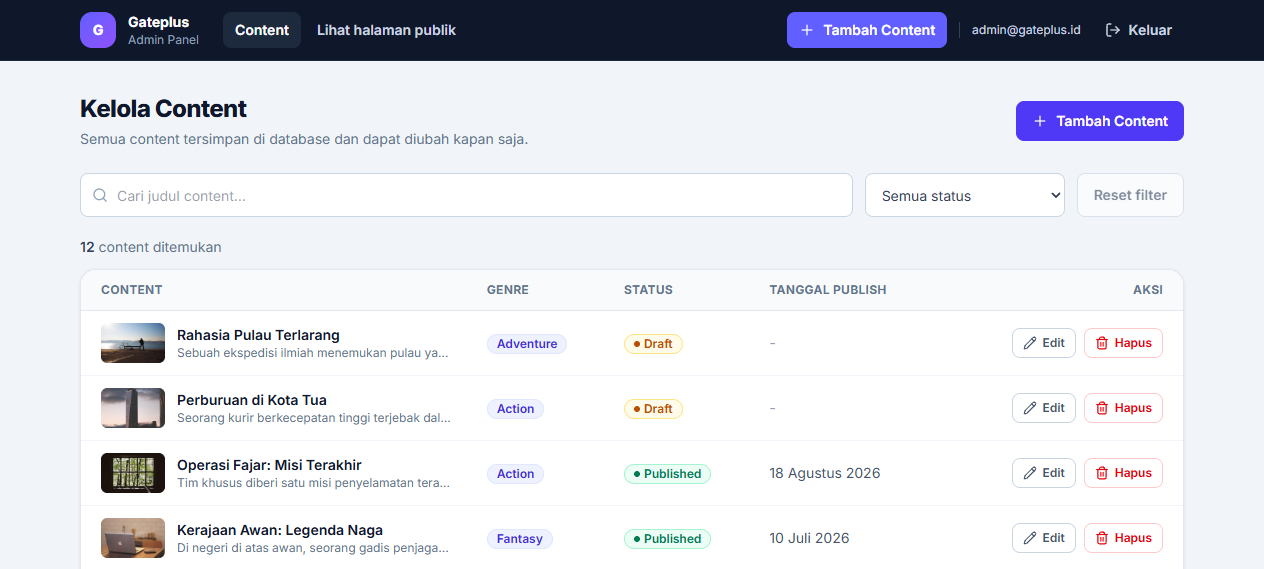
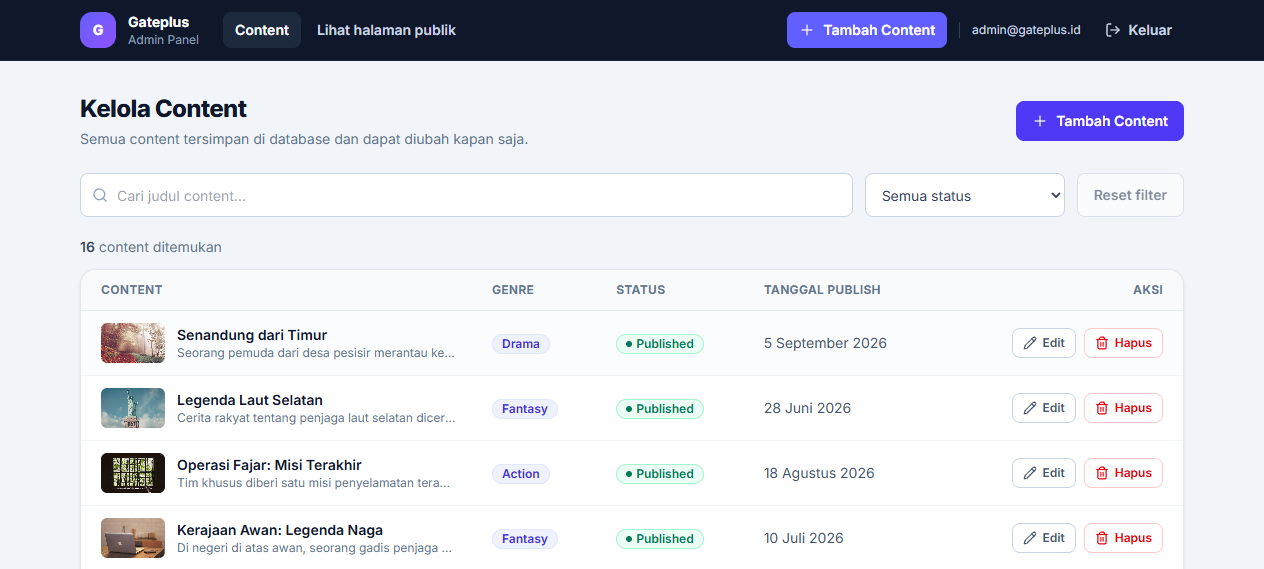
docs: perbarui README, tambah koleksi API, dan identitas submission
- README: isi nama dan URL repository (tidak ada placeholder lagi), badge CI, bagian Aturan Visibilitas Content, trade-off MongoDB vs relational, daftar yang sengaja tidak dikerjakan, status verifikasi, serta jawaban pertanyaan yang disesuaikan dengan implementasi terakhir

- docs/api.http: koleksi request siap pakai (REST Client/Postman) termasuk contoh kasus error 400/401/403/404

- Screenshot diperbarui (halaman publik tanpa filter status, panel admin 16 content) dan tambahan tampilan tablet

- .nvmrc dan engines Node >=20

diff --git a/README.md b/README.md
@@ -1,12 +1,14 @@
 # Gateplus Content Management
 
+[![CI](https://github.com/JakaxKato/gateplus-content-management/actions/workflows/ci.yml/badge.svg)](https://github.com/JakaxKato/gateplus-content-management/actions/workflows/ci.yml)
+
 Aplikasi content management dengan dua sisi: **halaman publik** untuk melihat content dan **panel admin** untuk membuat, mengubah, dan menghapus content. Seluruh data mengalir lewat REST API ke database MongoDB yang persistent.
 
 ---
 
-**Nama:** [Nama Kandidat]
-**Repository:** [URL repository]
-**Live Demo:** N/A
+**Nama:** Jaka Kelana Wijaya
+**Repository:** https://github.com/JakaxKato/gateplus-content-management
+**Live Demo:** N/A (belum di-deploy; cara menjalankan lokal ada di bawah)
 **Catatan:** Kredensial demo admin ada di bagian [Demo Credentials](#demo-credentials).
 
 ---
@@ -15,8 +17,8 @@ Aplikasi content management dengan dua sisi: **halaman publik** untuk melihat co
 
 Gateplus Content Management dibangun untuk memenuhi alur utuh **User → Frontend → API/Backend → Database → API Response → Frontend**:
 
-- **Halaman publik** (`/contents`): daftar content dengan thumbnail, genre, deskripsi singkat, status, tanggal publish, pencarian berdasarkan judul, filter genre/status, pagination, serta halaman detail content. Tersedia state loading (skeleton), empty, dan error.
-- **Panel admin** (`/admin`): login sederhana, list content, create, update, dan delete dengan dialog konfirmasi. Validasi berjalan di frontend **dan** backend.
+- **Halaman publik** (`/contents`): daftar content dengan thumbnail (atau placeholder), genre, deskripsi singkat, status, tanggal publish, pencarian berdasarkan judul, filter genre, pagination, serta halaman detail content. Tersedia state loading (skeleton), empty, error, dan tombol retry. Halaman publik **hanya menampilkan content berstatus `published`**.
+- **Panel admin** (`/admin`): login sederhana, list seluruh content (termasuk draft) dengan tabel di desktop dan card di mobile, create, update, dan delete dengan dialog konfirmasi. Validasi berjalan di frontend **dan** backend.
 - **REST API** (`/api`): CRUD content dengan status code yang sesuai, format response konsisten, error handling terpusat, dan server-side validation.
 
 ### Screenshots
@@ -29,9 +31,15 @@ Gateplus Content Management dibangun untuk memenuhi alur utuh **User → Fronten
 | --- | --- |
 | ![Panel admin](docs/screenshots/admin-list.png) | ![Validasi form](docs/screenshots/form-validation.png) |
 
-Tampilan mobile (panel admin menampilkan card, bukan tabel):
+Tampilan mobile dan tablet (panel admin memakai card di layar kecil, tabel hanya di desktop):
 
-![Mobile admin](docs/screenshots/mobile-admin.png)
+| Mobile (390px) | Tablet (820px) |
+| --- | --- |
+| ![Mobile admin](docs/screenshots/mobile-admin.png) | ![Tablet admin](docs/screenshots/tablet-admin.png) |
+
+| Tablet — halaman publik |
+| --- |
+| ![Tablet publik](docs/screenshots/tablet-public.png) |
 
 ## Tech Stack
 
@@ -40,17 +48,20 @@ Tampilan mobile (panel admin menampilkan card, bukan tabel):
 | Bagian | Teknologi |
 | --- | --- |
 | Database | MongoDB 7 (via Docker Compose) + Mongoose 9 |
-| Backend | Node.js 24, Express 5, TypeScript, Zod (validasi), JWT + bcryptjs (auth) |
+| Backend | Node.js 24, Express 5, TypeScript, Zod (validasi), JWT + bcryptjs (auth), helmet + express-rate-limit |
 | Frontend | React 19, Vite, TypeScript, Tailwind CSS v4, React Router 7 |
 | Data fetching | TanStack Query v5 (server state), fetch API bawaan |
 | Form | React Hook Form + Zod resolver |
-| Testing & quality | Vitest + Supertest (22 API test), ESLint, `tsc --noEmit`, GitHub Actions CI |
+| Testing & quality | Vitest + Supertest (32 API test), ESLint, `tsc --noEmit`, GitHub Actions CI |
 
 ## Cara Menjalankan Project
 
-**Prasyarat:** Node.js 20+ (dites di Node 24), npm, dan Docker (untuk MongoDB). Bisa juga memakai MongoDB Atlas dengan mengubah `MONGODB_URI`.
+**Prasyarat:** Node.js 20+ (dites di Node 24, lihat `.nvmrc`), npm, dan Docker (untuk MongoDB). Bisa juga memakai MongoDB Atlas dengan mengubah `MONGODB_URI`.
 
 ```bash
+# 0. (opsional) gunakan versi Node yang disarankan
+nvm use
+
 # 1. Install seluruh dependency (root, server, client)
 npm run install:all
 
@@ -63,7 +74,7 @@ cp server/.env.example server/.env
 # 3. Jalankan MongoDB
 npm run db:up
 
-# 4. Isi database dengan data awal (12 content + 1 akun admin)
+# 4. Isi database dengan data awal (16 content + 1 akun admin)
 npm run seed
 
 # 5. Jalankan server API dan frontend sekaligus
@@ -83,13 +94,13 @@ Script lain yang tersedia:
 ```bash
 npm run lint        # ESLint untuk server + client
 npm run typecheck   # TypeScript check untuk server + client
-npm test            # 22 automated test API (butuh MongoDB berjalan)
+npm test            # 32 automated test API (butuh MongoDB berjalan)
 npm run build       # Build production server + client
 npm run check       # lint + typecheck + test + build sekaligus
 npm run db:down     # Hentikan container MongoDB
 ```
 
-> **Troubleshooting:** bila mesin Anda menetapkan `NODE_ENV=production` secara global, `npm install` akan melewati devDependencies (ESLint/Vitest/TypeScript). Gunakan `npm install --include=dev` di folder `server/` dan `client/`.
+> **Troubleshooting:** bila mesin Anda menetapkan `NODE_ENV=production` secara global, `npm install` akan melewati devDependencies (ESLint/Vitest/TypeScript). Gunakan `npm install --include=dev` di folder `server/` dan `client/`. Script `npm run install:all` sudah memakai flag tersebut.
 
 ## Environment Variables
 
@@ -108,11 +119,11 @@ Frontend memakai `VITE_API_URL` (default `/api`, diteruskan proxy Vite ke port 5
 
 ## Database
 
-**Setup:** `npm run db:up` menjalankan MongoDB 7 lewat `docker-compose.yml` dengan volume bernama `mongo_data`, sehingga data tetap ada setelah container restart.
+**Setup:** `npm run db:up` menjalankan MongoDB 7 lewat `docker-compose.yml` dengan volume bernama `mongo_data`, sehingga data tetap ada setelah container restart atau aplikasi di-restart.
 
 **Seed:** `npm run seed` melakukan reset data (menghapus `contents` & `users`) lalu mengisi:
 
-- **12 content** — 8 `published` (dengan `published_at`) dan 4 `draft`; 2 di antaranya tanpa thumbnail untuk menguji placeholder.
+- **16 content** — 12 `published` (dengan `published_at`) dan 4 `draft`; 2 di antaranya tanpa thumbnail untuk menguji placeholder.
 - **1 akun admin** untuk login.
 
 **Koleksi `contents`** — field sesuai kebutuhan:
@@ -128,21 +139,21 @@ Frontend memakai `VITE_API_URL` (default `/api`, diteruskan proxy Vite ke port 5
 | `published_at` | Date \| null | Wajib (dan tidak boleh null) bila status `published` |
 | `created_at`, `updated_at` | Date | Otomatis dari Mongoose timestamps |
 
-Index `{ status, genre, created_at }` disiapkan untuk mempercepat filter + pengurutan yang paling sering dipakai.
+Index `{ status, genre, created_at }` disiapkan untuk mempercepat filter + pengurutan yang paling sering dipakai. Tidak ada migration tool khusus karena MongoDB schemaless — struktur divalidasi di level aplikasi (Mongoose + zod), dan data awal disiapkan lewat `npm run seed`.
 
 ## API Endpoints
 
-Base URL: `http://localhost:5000/api`
+Base URL: `http://localhost:5000/api`. Koleksi request siap pakai (REST Client/Postman) ada di [`docs/api.http`](docs/api.http).
 
 | Method | Endpoint | Auth | Deskripsi |
 | --- | --- | --- | --- |
 | GET | `/health` | – | Status server + koneksi database |
-| GET | `/contents` | – | List content (search, filter, pagination) |
-| GET | `/contents/:id` | – | Detail satu content |
+| GET | `/contents` | opsional | List content. Anonim: hanya `published`. Dengan token admin: semua status |
+| GET | `/contents/:id` | opsional | Detail content. Draft hanya bisa dibaca admin |
 | POST | `/contents` | Bearer token | Membuat content baru |
 | PUT | `/contents/:id` | Bearer token | Memperbarui content (payload lengkap) |
 | DELETE | `/contents/:id` | Bearer token | Menghapus content |
-| POST | `/auth/login` | – | Login admin, mengembalikan JWT |
+| POST | `/auth/login` | – | Login admin, mengembalikan JWT (dibatasi 10 percobaan / 15 menit) |
 | GET | `/auth/me` | Bearer token | Profil user yang sedang login |
 
 **Query params `GET /contents`:**
@@ -151,7 +162,7 @@ Base URL: `http://localhost:5000/api`
 | --- | --- | --- |
 | `search` | teks bebas (dicocokkan ke judul, case-insensitive) | – |
 | `genre` | salah satu genre yang terdaftar | – |
-| `status` | `draft` \| `published` | – |
+| `status` | `published` untuk semua pengunjung; `draft` hanya untuk admin | anonim: `published` |
 | `page` | integer ≥ 1 | `1` |
 | `limit` | integer 1–50 | `9` |
 
@@ -176,7 +187,7 @@ Base URL: `http://localhost:5000/api`
 }
 ```
 
-**Status code yang dipakai:** `200` (sukses), `201` (dibuat), `400` (validasi/format id/JSON rusak), `401` (token tidak ada/tidak valid, kredensial salah), `404` (data/endpoint tidak ditemukan), `409` (duplikat), `500` (error tak terduga). Error terpusat ditangani satu middleware, termasuk `CastError`, `ValidationError`, dan duplicate key MongoDB.
+**Status code yang dipakai:** `200` (sukses), `201` (dibuat), `400` (validasi/format id/JSON rusak), `401` (token tidak ada/tidak valid, kredensial salah), `403` (filter status khusus admin oleh pengunjung anonim), `404` (data/endpoint tidak ditemukan, termasuk draft yang diakses anonim), `409` (duplikat), `429` (rate limit login), `500` (error tak terduga). Error terpusat ditangani satu middleware, termasuk `CastError`, `ValidationError`, dan duplicate key MongoDB.
 
 **Contoh pemakaian:**
 
@@ -194,6 +205,19 @@ curl -s -X POST http://localhost:5000/api/contents \
 # List dengan search + filter
 curl -s "http://localhost:5000/api/contents?search=neon&genre=Sci-Fi&page=1&limit=9"
 ```
+
+## Aturan Visibilitas Content (draft vs published)
+
+Endpoint publik **tidak pernah** mengembalikan draft:
+
+- `GET /contents` tanpa token otomatis dibatasi ke `status=published`; meminta `?status=draft` sebagai anonim menghasilkan `403`.
+- `GET /contents/:id` untuk content draft mengembalikan `404` ke anonim (bukan `403`, supaya keberadaan draft tidak bocor).
+- Admin yang menyertakan token JWT melihat semua status — dipakai oleh panel admin dan halaman edit.
+- Halaman publik mengirim `status=published` secara eksplisit, sehingga walaupun admin sedang login di browser yang sama, halaman publik tetap hanya menampilkan content published.
+
+Badge **Status** dan **Published date** tetap ditampilkan di kartu halaman publik (sesuai brief), hanya saja nilainya selalu `Published` karena draft memang tidak pernah dikirim ke halaman publik. Filter status tersedia di panel admin, tempat filter itu relevan.
+
+**Trade-off:** tampilan "halaman publik semua status" memang lebih mudah untuk mendemokan variasi draft, tetapi berisiko dilihat sebagai kebocoran data. Karena brief menekankan alur data yang benar, aturan "publik = published" dipilih sebagai perilaku default; variasi draft tetap ditunjukkan lewat panel admin dan screenshot.
 
 ## Struktur Project
 
@@ -213,16 +237,18 @@ curl -s "http://localhost:5000/api/contents?search=neon&genre=Sci-Fi&page=1&limi
 │   │   ├── config/                # pembacaan & validasi environment
 │   │   ├── controllers/           # handler HTTP
 │   │   ├── db/                    # koneksi MongoDB
-│   │   ├── middlewares/           # validate (zod), auth (JWT), error handler
-│   │   ├── models/                # skema Mongoose + transform toJSON
+│   │   ├── middlewares/           # validate (zod), auth (require + optional), error handler
+│   │   ├── models/                # skema Mongoose, invariant, transform toJSON
 │   │   ├── routes/                # definisi route
 │   │   ├── schemas/               # skema validasi zod
 │   │   ├── utils/                 # AppError, response helper, jwt
-│   │   ├── app.ts                 # perakitan Express app
+│   │   ├── app.ts                 # perakitan Express app (helmet, cors, routes)
 │   │   ├── server.ts              # bootstrap + graceful shutdown
 │   │   └── seed.ts                # data awal
 │   └── tests/                     # automated test API (Vitest + Supertest)
-├── docs/screenshots/
+├── docs/
+│   ├── api.http                   # koleksi request API (REST Client/Postman)
+│   └── screenshots/
 ├── .github/workflows/ci.yml
 ├── docker-compose.yml
 └── package.json                   # script orkestrasi (install, db, seed, dev, check)
@@ -239,42 +265,69 @@ Aturan validasi dijalankan di **dua tempat**: zod di backend sebagai sumber kebe
 | `genre` wajib & harus dari daftar genre | ✔ | ✔ (zod enum + enum model) |
 | `status` harus `draft` atau `published` | ✔ | ✔ |
 | `thumbnail_url` valid (http/https) jika diisi | ✔ | ✔ |
-| `published_at` wajib & valid jika status `published` | ✔ | ✔ |
+| `published_at` wajib & valid jika status `published` | ✔ | ✔ (zod + hook model) |
 | Error per field dari server dipetakan ke field form | ✔ | — |
 
-Isi ulang `published_at` saat status `draft` akan disimpan sebagai `null`, sehingga tidak ada content draft yang punya tanggal publish.
+**Konsistensi `published_at`:**
+
+- Status `draft` boleh (dan selalu disimpan sebagai) `null` — controller dan hook `pre('validate')` di model menetapkan `null` walaupun client mengirim tanggal.
+- Status `published` wajib punya tanggal valid; pelanggaran ditolak `400` dengan error pada field `published_at`.
+- Aturan ini ditegakkan di tiga lapis: skema zod (kontrak API), hook model (berlaku juga untuk penulisan langsung seperti seed), dan validasi form di frontend.
+
+## Autentikasi
+
+- Login admin (`POST /auth/login`) memverifikasi password dengan bcrypt dan mengembalikan JWT (masa berlaku dari `JWT_EXPIRES_IN`).
+- Endpoint `POST`, `PUT`, `DELETE` wajib menyertakan `Authorization: Bearer <token>`; `GET` boleh diakses tanpa token.
+- Middleware `optionalAuth` dipakai pada `GET`: token valid → diperlakukan sebagai admin, tanpa token → anonim, token ada tapi tidak valid → `401` (supaya frontend membersihkan sesi yang kedaluwarsa).
+- `POST /auth/login` dibatasi 10 percobaan per 15 menit (express-rate-limit, dinonaktifkan otomatis saat `NODE_ENV=test`).
+- Response `GET /auth/me` dan `POST /auth/login` tidak pernah menyertakan field `password` (dihapus oleh `toJSON` transform pada model User).
 
 ## Testing & Code Quality
 
-- **22 automated test API** (`npm test` di folder `server/`) memakai Vitest + Supertest dengan database terpisah (`gateplus_test`): memverifikasi happy path CRUD, search/filter/pagination, seluruh aturan validasi, autentikasi (401/berhasil), format error, dan 400/404 untuk input/id yang salah.
+- **32 automated test API** (`npm test` di folder `server/`) memakai Vitest + Supertest dengan database terpisah (`gateplus_test`). Cakupannya: list & pagination, detail, search, filter genre dan status, aturan visibilitas draft (403/404 untuk anonim), create/update/delete, validasi per field, thumbnail URL tidak valid, published tanpa `published_at`, invariant model, unauthorized mutation, content tidak ditemukan, konsistensi format response, login, dan health check.
 - **ESLint** (flat config) untuk kedua package, **`tsc --noEmit`** untuk typecheck, dan **build production** keduanya.
-- **CI GitHub Actions** (`.github/workflows/ci.yml`) menjalankan lint, typecheck, test (dengan service container MongoDB), dan build untuk setiap push/PR.
+- **CI GitHub Actions** (`.github/workflows/ci.yml`) menjalankan lint, typecheck, test (dengan service container MongoDB), dan build untuk setiap push/PR — statusnya hijau dan terlihat di badge paling atas README.
 
 ## Technical Decisions & Trade-offs
 
 1. **TypeScript di dua sisi.** Kontrak data antara frontend dan backend jadi eksplisit dan kesalahan tipe tertangkap saat build. Trade-off: ada langkah build dan versi TypeScript dipin ke `6.x` karena `typescript-eslint` belum mendukung TS 7.
 2. **Dua lapis validasi (zod di server, skema terpisah di client).** Server tetap satu-satunya penentu kebenaran; client hanya mempercepat feedback. Trade-off: aturan validasi terduplikasi karena tidak ada paket `shared/` — membuat workspace tambahan dianggap over-engineering untuk scope ini.
 3. **Kontrak response seragam + error handler terpusat.** Frontend cukup menangani satu bentuk response, dan error per field (`errors[]`) langsung dipetakan ke form. Trade-off: pesan error harus disiplin dijaga agar tidak ada endpoint yang menyimpang.
-4. **Auth hanya untuk endpoint mutasi.** `GET` tetap publik supaya halaman publik tidak butuh login, sedangkan perubahan data wajib memakai JWT. Trade-off: token disimpan di `localStorage` (rentan XSS) dan belum ada refresh token; untuk produksi lebih baik `httpOnly` cookie + proteksi CSRF.
-5. **Halaman publik menampilkan semua status dengan badge**, karena brief meminta field *status* dan *tanggal publish* tampil di daftar. Di produksi, tinggal mengirim `status=published` sebagai default di endpoint publik. Trade-off: draft ikut terlihat di demo.
-6. **TanStack Query untuk server state** menerima loading/error state, cache, dan invalidasi setelah mutasi secara konsisten (termasuk pagination tanpa flicker lewat `keepPreviousData`). Trade-off: satu dependency tambahan.
+4. **Auth hanya untuk endpoint mutasi, dengan `optionalAuth` pada `GET`.** Halaman publik tetap bisa diakses tanpa login, sedangkan draft hanya terbaca oleh admin lewat endpoint yang sama. Trade-off: satu endpoint melayani dua konteks (publik vs admin), sehingga perilakunya perlu didokumentasikan dengan jelas (lihat bagian Aturan Visibilitas Content).
+5. **Draft tidak pernah diekspos ke publik.** `GET /contents` anonim dibatasi `status=published`, draft hanya terlihat admin, dan detail draft mengembalikan `404` untuk anonim. Trade-off: badge status di halaman publik selalu `Published` sehingga variasi draft tidak terlihat di sana; variasi draft diperlihatkan di panel admin. Alasan lengkap ada di bagian [Aturan Visibilitas Content](#aturan-visibilitas-content-draft-vs-published).
+6. **TanStack Query untuk server state** menangani loading/error state, cache, dan invalidasi setelah mutasi secara konsisten (termasuk pagination tanpa flicker lewat `keepPreviousData`). Trade-off: satu dependency tambahan.
 7. **Pencarian memakai regex case-insensitive dengan escaping** (aman dari injeksi regex) dan sort `created_at desc`. Trade-off: tidak memakai text index/Atlas Search; pada data besar perlu diganti.
 8. **PUT (bukan PATCH)** karena form admin mengirim payload lengkap, sehingga tidak perlu logika merge parsial. Trade-off: update sebagian (partial update) belum didukung.
 9. **`toJSON` transform di model** memastikan frontend selalu menerima `id` (bukan `_id`) dan tidak pernah menerima `__v` maupun `password`. Trade-off: bentuk dokumen mentah di server dan bentuk JSON di API berbeda tipis, perlu disadari saat debug.
 10. **Delete berupa hard delete dengan dialog konfirmasi.** Trade-off: tanpa soft delete/audit trail; untuk kebutuhan internal yang butuh pemulihan data, soft delete lebih tepat.
 11. **Komponen UI ditulis sendiri di atas Tailwind** (tanpa UI kit). Trade-off: lebih banyak kode komponen dasar, tetapi bundle kecil dan gaya konsisten.
-12. **State filter disimpan sebagai state komponen**, belum disinkronkan ke URL query. Trade-off: filter tidak bisa di-share lewat link, tetapi implementasi jauh lebih sederhana.
+12. **Helmet + rate limit login.** Header keamanan standar dipasang dan login dibatasi per IP. Trade-off: rate limit berbasis memory store (cukup untuk single instance, perlu Redis bila di-scale horizontal).
+13. **State filter disimpan sebagai state komponen**, belum disinkronkan ke URL query. Trade-off: filter tidak bisa di-share lewat link, tetapi implementasi jauh lebih sederhana.
+
+### Trade-off MongoDB dibanding database relational
+
+- **Yang menguntungkan di kasus ini:** dokumen content tidak punya relasi (tidak ada join genre/user), sehingga bentuk JSON-native MongoDB langsung bisa dikirim sebagai response API tanpa mapping tabel. Skema yang fleksibel juga cocok karena field seperti `published_at` boleh `null` dan thumbnail opsional.
+- **Yang hilang dibanding relational:** tidak ada foreign key & constraint tingkat database, jadi konsistensi seperti "published wajib punya `published_at`" harus dijaga di aplikasi (zod + hook Mongoose) — pada MySQL/PostgreSQL ini bisa ditegakkan dengan `CHECK`/`NOT NULL`. Selain itu, transaksi lintas dokumen dan query agregasi kompleks lebih mudah diekspresikan di SQL.
+- **Kapan akan pindah:** jika content mulai punya relasi banyak (kategori hierarkis, penulis, riwayat revisi, audit) dan butuh constraint kuat di level database, PostgreSQL lebih tepat. Karena semua akses data sudah dibungkus di layer model/controller, migrasi hanya menyentuh `server/src/models` dan `controllers`, bukan frontend.
+
+## Yang Sengaja Tidak Dikerjakan (di luar scope)
+
+- Upload file thumbnail — brief meminta **thumbnail URL**, bukan storage; agar tidak menambah kompleksitas penyimpanan.
+- Payment, realtime/WebSocket, role & permission kompleks, microservices, dan video streaming (secara eksplisit tidak perlu).
+- **PATCH** partial update — brief menulis "PUT **atau** PATCH", dan form admin selalu mengirim payload lengkap, jadi PUT dipilih agar tidak ada logika merge parsial.
+- Soft delete & audit trail — tidak diminta; hard delete dengan konfirmasi sudah memenuhi kebutuhan admin.
+- Internationalization (i18n) — UI dan dokumentasi cukup satu bahasa (Indonesia) untuk konteks test ini.
 
 ## Known Limitations
 
-- Belum ada hardening produksi: rate limiting, `helmet`, dan penanganan brute force login.
 - Token JWT disimpan di `localStorage`, belum memakai cookie `httpOnly` + refresh token.
 - Pencarian hanya pada judul (sesuai brief), belum full-text search pada deskripsi.
-- Thumbnail hanya berupa URL — belum ada upload file (juga di luar scope brief).
 - Pagination berbasis offset; untuk data sangat besar lebih baik cursor-based.
-- Setelah create/update/delete, UI menunggu refetch (tanpa optimistic update).
-- Filter tidak tersimpan di URL, dan panel admin belum punya halaman pratinjau tersendiri.
-- Belum ada automated E2E test di browser; pengujian UI dilakukan manual (hasilnya ada di `docs/screenshots/`).
+- Setelah create/update/delete, UI menunggu refetch (belum optimistic update).
+- Filter & pagination belum tersimpan di URL, jadi belum bisa di-share lewat link.
+- Rate limit login memakai memory store (belum Redis) dan belum ada rate limit untuk endpoint mutasi.
+- Belum ada automated E2E test di browser; alur UI diverifikasi manual (bukti ada di `docs/screenshots/`).
+- Live demo belum tersedia (belum di-deploy), sehingga reviewer perlu menjalankan secara lokal.
 
 ## Demo Credentials
 
@@ -285,6 +338,19 @@ Password: admin123
 
 Akun ini dibuat oleh `npm run seed`. Halaman publik tidak memerlukan login.
 
+## Status Verifikasi
+
+Terakhir diverifikasi di lingkungan pengembangan (Node 24, MongoDB 7 lewat Docker):
+
+| Pemeriksaan | Perintah | Hasil |
+| --- | --- | --- |
+| Lint | `npm run lint` | lolos (server + client) |
+| Typecheck | `npm run typecheck` | lolos (server + client) |
+| Automated test | `npm test` | 32 test lolos |
+| Production build | `npm run build` | lolos (server + client) |
+| CI | GitHub Actions | hijau (badge di atas) |
+| Alur manual | browser | list publik (hanya published), detail, search, filter genre, pagination, login admin, create (draft & published), edit, delete + konfirmasi, responsive mobile/tablet/desktop |
+
 ---
 
 ## Jawaban Pertanyaan
@@ -293,48 +359,48 @@ Akun ini dibuat oleh `npm run seed`. Halaman publik tidak memerlukan login.
 
 Karena brief menekankan pemahaman alur **frontend → API → database**, saya memilih stack yang paling saya kuasai dan paling langsung menggambarkan alur itu (MERN), bukan stack yang paling banyak komponennya.
 
-- **MongoDB** cocok untuk content karena bentuknya JSON-native sehingga dokumen bisa langsung dipetakan ke response API dan object di frontend tanpa mapping berlebih. Skema content juga masih sederhana, jadi fleksibilitas document store belum menjadi risiko konsistensi.
+- **MongoDB** cocok untuk content karena bentuknya JSON-native sehingga dokumen bisa langsung dipetakan ke response API dan object di frontend tanpa mapping berlebih. Skema content juga masih sederhana, jadi fleksibilitas document store belum menjadi risiko konsistensi. Perbandingan detailnya ada di bagian [Trade-off MongoDB dibanding database relational](#trade-off-mongodb-dibanding-database-relational).
 - **Express 5** ringan dan sudah menangani error dari handler `async` secara otomatis, sehingga kode controller tetap bersih.
 - **React + Vite + TypeScript** memberi feedback cepat saat development, sementara TypeScript membuat kontrak data frontend–backend terlihat jelas (tipe `Content`, `PaginationMeta`, `ApiSuccess`/`ApiErrorBody`).
 - **Tailwind CSS** membuat layout responsive (mobile/tablet/desktop) konsisten tanpa menulis CSS terpisah per komponen.
-- **Zod** dipilih karena validasi yang sama bisa dibaca di kedua sisi tanpa mengubah struktur kode, dan pesan errornya mudah dipetakan ke field form.
+- **Zod** dipilih karena aturan validasi yang sama bisa dibaca di kedua sisi tanpa mengubah struktur kode, dan pesan errornya mudah dipetakan ke field form.
 
 ### 2. Bagaimana struktur aplikasinya?
 
 Monorepo sederhana dengan dua aplikasi yang diorkestrasi dari root:
 
-- `server/` — Express dengan pemisahan berlapis: **routes → middleware (validasi/auth) → controller → model**. Semua aturan validasi ada di `schemas/`, error ditangani satu middleware terpusat, dan seluruh response dibentuk lewat satu helper agar konsisten.
+- `server/` — Express dengan pemisahan berlapis: **routes → middleware (auth/validasi) → controller → model**. Semua aturan validasi ada di `schemas/`, error ditangani satu middleware terpusat, dan seluruh response dibentuk lewat satu helper agar konsisten.
 - `client/` — React dengan pembagian **pages / components / hooks / lib / context**. Semua akses API melewati satu `apiRequest()` di `lib/api.ts`, sehingga penanganan token, error, dan format response hanya ada di satu tempat. Data fetching dan mutasi memakai TanStack Query, sedangkan state UI (form, filter) tetap lokal.
 - Di root ada script `dev`, `seed`, `lint`, `test`, dan `check` supaya reviewer bisa menjalankan semuanya tanpa menghafal perintah masing-masing folder.
 
-Alur datanya: **komponen React → hook (TanStack Query) → `apiRequest` → Express route → middleware validasi zod → controller → Mongoose → MongoDB → response `{success, data, meta}` → cache query → komponen**.
+Alur datanya: **komponen React → hook (TanStack Query) → `apiRequest` (menyisipkan token bila ada) → Express route → middleware `optionalAuth`/`requireAuth` → middleware validasi zod → controller → Mongoose → MongoDB → response `{success, data, meta}` → cache query → komponen**. Setelah create/update/delete, TanStack Query meng-invalidate cache `['contents']` sehingga daftar dan detail otomatis ter-refetch tanpa reload halaman.
 
 ### 3. Apa keputusan teknis paling penting?
 
-**Kontrak error dan validasi yang seragam.** Server mengembalikan bentuk yang selalu sama (`success`, `message`, `errors[{field,message}]`), dan frontend memetakan `errors[]` itu langsung ke field form lewat `setError`. Dampaknya: aturan validation tetap satu sumber kebenaran di backend, frontend tidak perlu logika penerjemahan error khusus per endpoint, dan pengguna melihat pesan yang jelas di field yang tepat — baik validasi ditolak di browser maupun di server.
+**Kontrak error dan validasi yang seragam.** Server mengembalikan bentuk yang selalu sama (`success`, `message`, `errors[{field,message}]`), dan frontend memetakan `errors[]` itu langsung ke field form lewat `setError`. Dampaknya: aturan validasi tetap satu sumber kebenaran di backend, frontend tidak perlu logika penerjemahan error khusus per endpoint, dan pengguna melihat pesan yang jelas di field yang tepat — baik validasi ditolak di browser maupun di server.
 
-Keputusan penting lain: **aturan `published_at` diperlakukan sebagai invariant** (wajib dan valid bila `published`; otomatis `null` bila `draft`) sehingga tidak ada data yang saling bertentangan, serta **`toJSON` transform pada model** sehingga API tidak pernah membocorkan `_id`, `__v`, atau `password`.
+Keputusan penting lain: **aturan `published_at` diperlakukan sebagai invariant** (wajib dan valid bila `published`; otomatis `null` bila `draft`, ditegakkan di zod + hook model), **draft tidak pernah diekspos ke endpoint publik**, serta **`toJSON` transform pada model** sehingga API tidak pernah membocorkan `_id`, `__v`, atau `password`.
 
 ### 4. Apa limitation solusi?
 
-Yang paling perlu disadari: belum ada hardening produksi (rate limit, `helmet`, proteksi brute force), token disimpan di `localStorage` tanpa refresh token, pencarian terbatas pada judul dan memakai regex (belum text index), pagination masih offset-based, tidak ada optimistic update maupun automated E2E test, dan filter belum bisa di-share lewat URL. Daftar lengkapnya ada di bagian [Known Limitations](#known-limitations).
+Yang paling perlu disadari: token disimpan di `localStorage` tanpa refresh token, pencarian terbatas pada judul dan memakai regex (belum text index), pagination masih offset-based, belum ada optimistic update maupun automated E2E test, filter belum bisa di-share lewat URL, rate limit login masih memory store, dan live demo belum tersedia. Daftar lengkapnya ada di bagian [Known Limitations](#known-limitations).
 
 ### 5. Jika mendapat 1 hari tambahan, apa yang diperbaiki?
 
 Prioritas berdasarkan risiko dan nilai:
 
-1. **E2E test (Playwright)** untuk alur admin (login → create → update → delete) dan menjalankannya di CI bersama test API.
-2. **Hardening & auth yang lebih aman**: `helmet`, rate limit pada `/auth/login` dan endpoint mutasi, refresh token + cookie `httpOnly`, serta audit log perubahan content.
-3. **Sinkronisasi filter/pagination ke URL** agar state bisa di-share dan tombol back bekerja sesuai ekspektasi, lalu menambahkan preview halaman publik di panel admin (pratinjau sebelum publish).
-4. **Optimistic update + skeleton per bagian** agar interaksi terasa instan, serta perbaikan aksesibilitas lanjutan (focus trap pada modal, `aria-live` untuk toast).
-5. **Deploy nyata** (client di Vercel, server di Render/Fly.io, database di MongoDB Atlas) supaya ada live demo URL, termasuk pengecekan CORS dan konfigurasi environment produksi.
+1. **Deploy nyata + live demo URL** (client di Vercel, server di Render/Fly.io, database di MongoDB Atlas) supaya reviewer bisa mencoba tanpa setup lokal.
+2. **E2E test (Playwright)** untuk alur admin (login → create → update → delete) dan menjalankannya di CI bersama test API.
+3. **Auth yang lebih aman**: refresh token + cookie `httpOnly`, rate limit untuk endpoint mutasi (bukan hanya login), dan audit log perubahan content.
+4. **Sinkronisasi filter/pagination ke URL** agar state bisa di-share dan tombol back bekerja sesuai ekspektasi, lalu menambahkan pratinjau halaman publik di panel admin.
+5. **Optimistic update** agar interaksi terasa instan, plus perbaikan aksesibilitas lanjutan (navigasi keyboard pada pagination, `role`/`aria` yang lebih kaya pada tabel).
 
 ### 6. Jika API/database production error atau lambat, apa langkah debugging pertama?
 
 Urutannya: **tentukan lokasi masalahnya dulu, jangan langsung menebak kode.**
 
 1. **Cek liveness**: `GET /api/health` dan log server (morgan). Dari sini bisa langsung dibedakan apakah prosesnya mati/restarting, atau koneksi database yang bermasalah (`database: disconnected`), atau aplikasinya hidup tapi lambat.
-2. **Lihat pola error**: apakah semua endpoint terdampak (indikasi database/network/infra) atau hanya satu endpoint (indikasi query/kode). Perhatikan distribusi status code — `5xx` tak terduga vs `400/404` yang berarti input, serta apakah error mulai muncul tepat setelah deploy (→ curigai perubahan terakhir, siapkan rollback).
+2. **Lihat pola error**: apakah semua endpoint terdampak (indikasi database/network/infra) atau hanya satu endpoint (indikasi query/kode). Perhatikan distribusi status code — `5xx` tak terduga vs `400/404` yang berarti input, `429` yang berarti rate limit, serta apakah error mulai muncul tepat setelah deploy (→ curigai perubahan terakhir, siapkan rollback).
 3. **Ukur dan repro**: reproduksi endpoint yang bermasalah dengan `curl` sambil mengukur waktunya, lalu cek durasi query di MongoDB (`explain()`, `db.currentOp()`, slow query log). Kalau query memindai banyak dokumen, langkah pertamanya adalah menambah/memperbaiki index (mis. index `{status, genre, created_at}`) atau membatasi `limit`.
 4. **Cek resource**: connection pool MongoDB, CPU/memory proses Node, dan spike traffic. Mitigasi cepat: naikkan pool/timeout secara hati-hati, tambahkan cache atau rate limit, dan lakukan scale sementara.
 5. **Baru perbaiki akar masalah**, lalu tambahkan monitoring/alerting dan test regresi supaya kasus yang sama tidak terulang.
